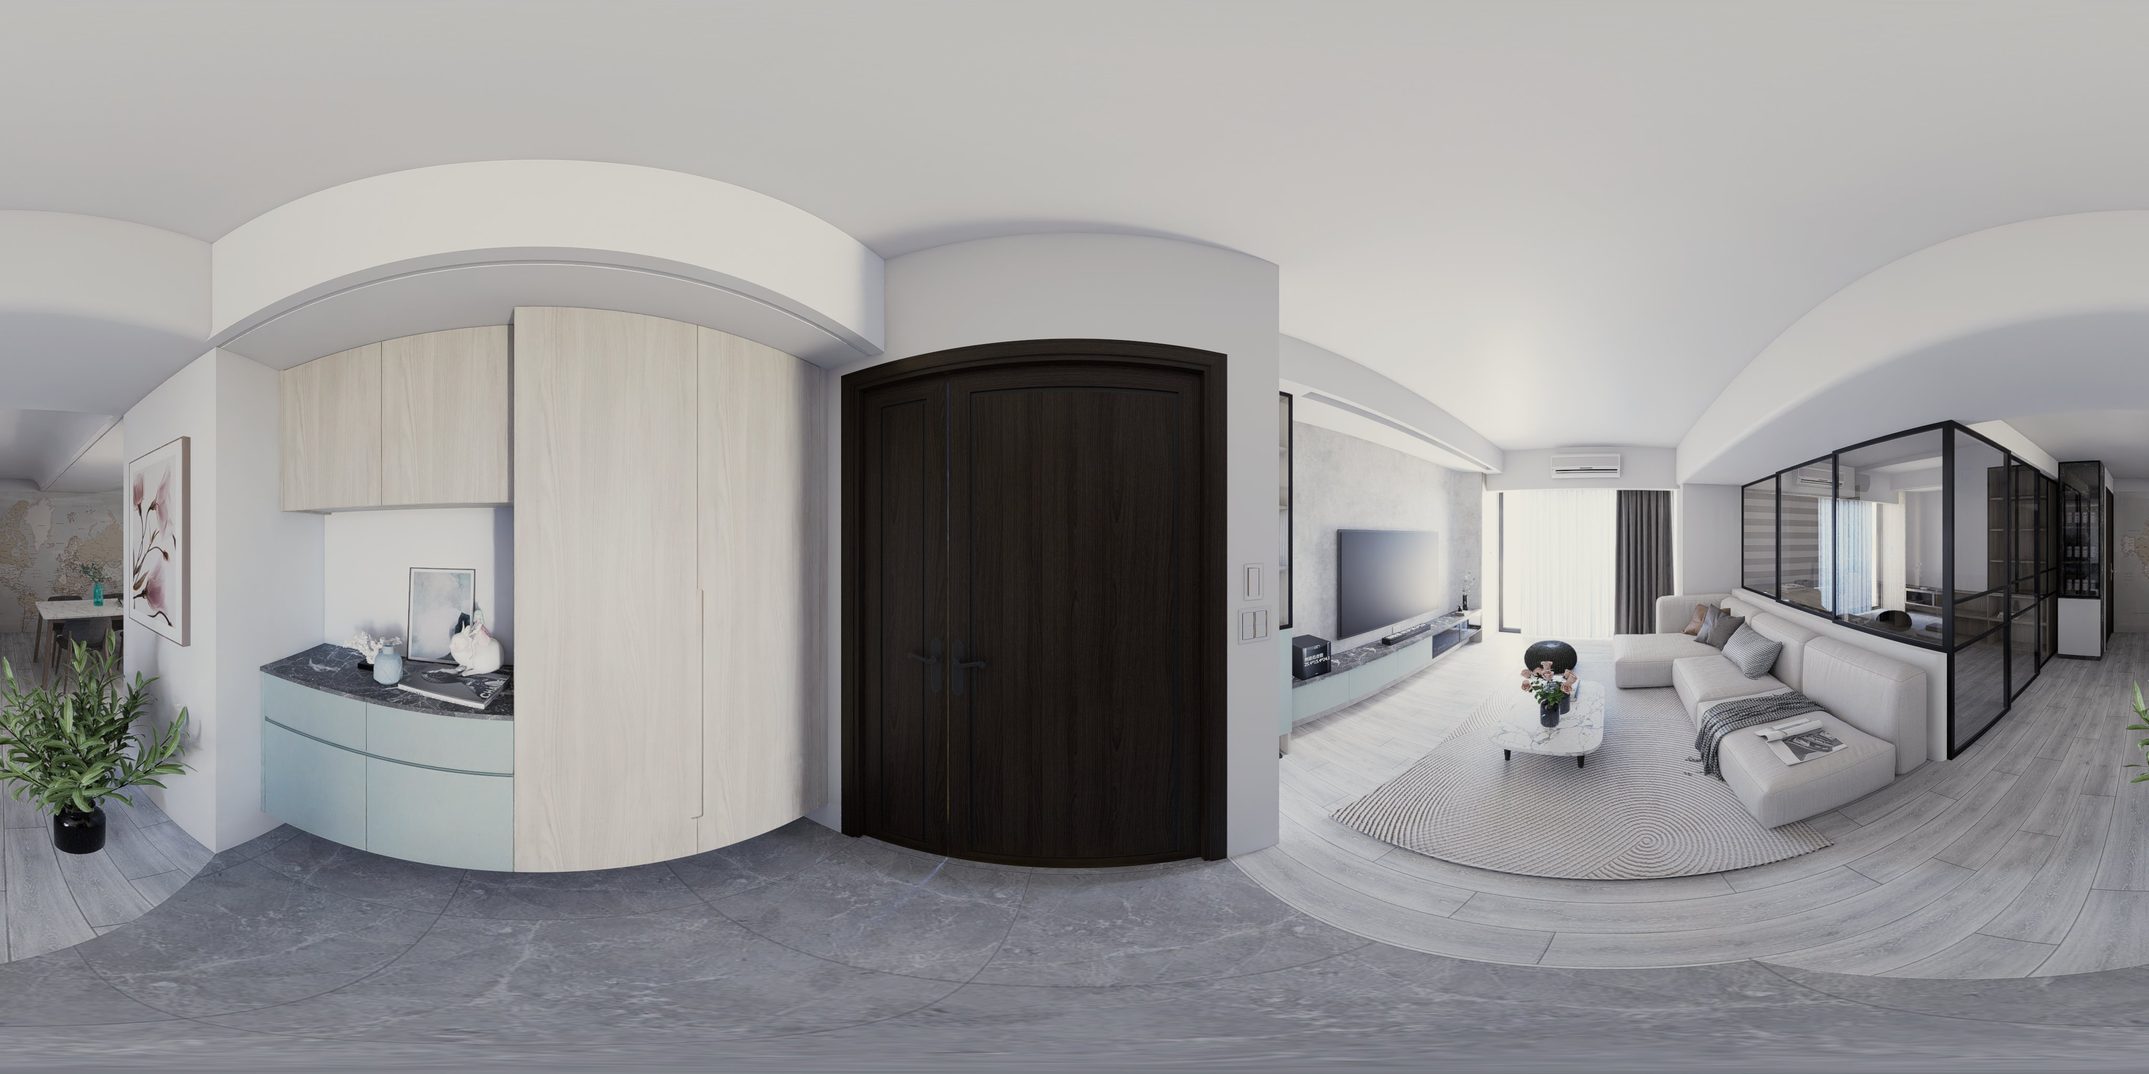
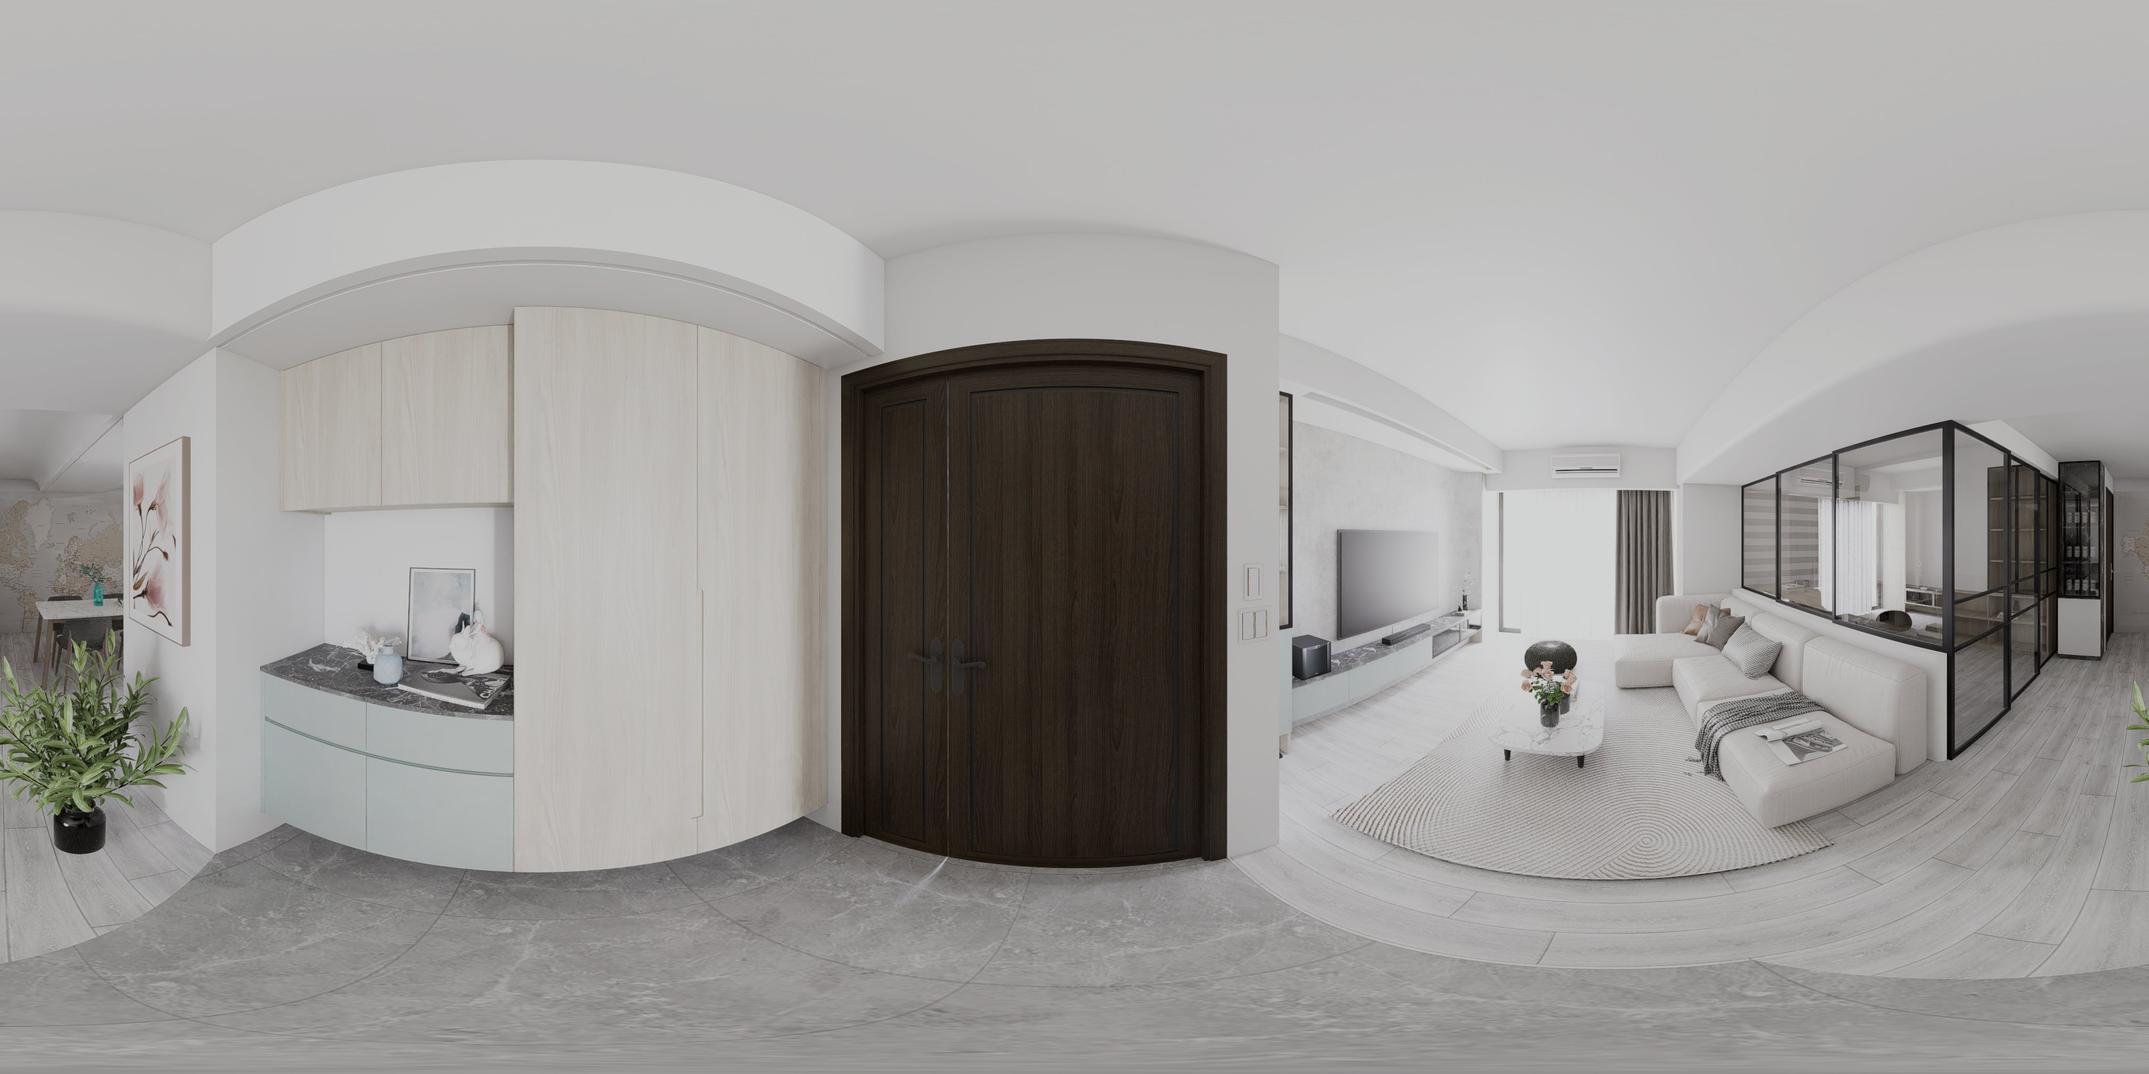
崇德仁美刪除家電上的尺寸文字（玄關、客廳、餐廚 12 張重出）
- 設計師原模型在揚聲器、低音箱、冰箱、微波爐上標了 3D 尺寸文字，渲染時會出現
- 刪除後重出 VR1~VR3 有／無飾品的白天與燈光版，白天對齊原線上版亮度色調

diff --git a/chongde/index.html b/chongde/index.html
@@ -121,7 +121,7 @@ body { background: var(--bg); color: var(--ink); font-family: var(--f-ui); font-
 <script src="https://cdnjs.cloudflare.com/ajax/libs/pannellum/2.5.6/pannellum.js"></script>
 <script>
 const ROOMS = [{"id": "VR1", "name": "玄關", "x": 43.33, "y": 22.01}, {"id": "VR2", "name": "客廳", "x": 80.0, "y": 13.88}, {"id": "VR3", "name": "餐廚", "x": 34.44, "y": 44.5}, {"id": "VR4", "name": "書房", "x": 67.78, "y": 51.2}, {"id": "VR5", "name": "主臥", "x": 63.33, "y": 69.86}];
-const SCENES = {"VR1": {"title": "玄關", "panorama": "pano/VR1.jpg?v=s1", "yaw": 70, "pitch": -5, "hfov": 105, "northOffset": 0, "hotSpots": [{"pitch": -12, "yaw": 70, "type": "scene", "sceneId": "VR2", "targetYaw": "sameAzimuth", "cssClass": "gis-hot", "createTooltipFunc": "HOT", "createTooltipArgs": "客廳"}, {"pitch": -12, "yaw": -160, "type": "scene", "sceneId": "VR3", "targetYaw": "sameAzimuth", "cssClass": "gis-hot", "createTooltipFunc": "HOT", "createTooltipArgs": "餐廚"}]}, "VR2": {"title": "客廳", "panorama": "pano/VR2.jpg?v=s1", "yaw": 0, "pitch": -5, "hfov": 105, "northOffset": 0, "hotSpots": [{"pitch": -14, "yaw": -98, "type": "scene", "sceneId": "VR1", "targetYaw": "sameAzimuth", "cssClass": "gis-hot", "createTooltipFunc": "HOT", "createTooltipArgs": "玄關"}, {"pitch": -5, "yaw": -135, "type": "scene", "sceneId": "VR3", "targetYaw": "sameAzimuth", "cssClass": "gis-hot", "createTooltipFunc": "HOT", "createTooltipArgs": "餐廚"}]}, "VR3": {"title": "餐廚", "panorama": "pano/VR3.jpg?v=s1", "yaw": -160, "pitch": -5, "hfov": 105, "northOffset": 0, "hotSpots": [{"pitch": -14, "yaw": 25, "type": "scene", "sceneId": "VR1", "targetYaw": "sameAzimuth", "cssClass": "gis-hot", "createTooltipFunc": "HOT", "createTooltipArgs": "玄關"}, {"pitch": -6, "yaw": 55, "type": "scene", "sceneId": "VR2", "targetYaw": "sameAzimuth", "cssClass": "gis-hot", "createTooltipFunc": "HOT", "createTooltipArgs": "客廳"}, {"pitch": -10, "yaw": 100, "type": "scene", "sceneId": "VR4", "targetYaw": "sameAzimuth", "cssClass": "gis-hot", "createTooltipFunc": "HOT", "createTooltipArgs": "書房"}, {"pitch": -6, "yaw": 140, "type": "scene", "sceneId": "VR5", "targetYaw": "sameAzimuth", "cssClass": "gis-hot", "createTooltipFunc": "HOT", "createTooltipArgs": "主臥"}]}, "VR4": {"title": "書房", "panorama": "pano/VR4.jpg?v=s1", "yaw": 60, "pitch": -5, "hfov": 105, "northOffset": 0, "hotSpots": [{"pitch": -10, "yaw": -80, "type": "scene", "sceneId": "VR3", "targetYaw": "sameAzimuth", "cssClass": "gis-hot", "createTooltipFunc": "HOT", "createTooltipArgs": "餐廚"}]}, "VR5": {"title": "主臥", "panorama": "pano/VR5.jpg?v=s1", "yaw": 180, "pitch": -5, "hfov": 105, "northOffset": 0, "hotSpots": [{"pitch": -6, "yaw": -75, "type": "scene", "sceneId": "VR3", "targetYaw": "sameAzimuth", "cssClass": "gis-hot", "createTooltipFunc": "HOT", "createTooltipArgs": "餐廚"}]}, "VR1@n": {"title": "玄關", "panorama": "pano_night/VR1.jpg?v=s1", "yaw": 70, "pitch": -5, "hfov": 105, "northOffset": 0, "hotSpots": [{"pitch": -12, "yaw": 70, "type": "scene", "sceneId": "VR2@n", "targetYaw": "sameAzimuth", "cssClass": "gis-hot", "createTooltipFunc": "HOT", "createTooltipArgs": "客廳"}, {"pitch": -12, "yaw": -160, "type": "scene", "sceneId": "VR3@n", "targetYaw": "sameAzimuth", "cssClass": "gis-hot", "createTooltipFunc": "HOT", "createTooltipArgs": "餐廚"}]}, "VR2@n": {"title": "客廳", "panorama": "pano_night/VR2.jpg?v=s1", "yaw": 0, "pitch": -5, "hfov": 105, "northOffset": 0, "hotSpots": [{"pitch": -14, "yaw": -98, "type": "scene", "sceneId": "VR1@n", "targetYaw": "sameAzimuth", "cssClass": "gis-hot", "createTooltipFunc": "HOT", "createTooltipArgs": "玄關"}, {"pitch": -5, "yaw": -135, "type": "scene", "sceneId": "VR3@n", "targetYaw": "sameAzimuth", "cssClass": "gis-hot", "createTooltipFunc": "HOT", "createTooltipArgs": "餐廚"}]}, "VR3@n": {"title": "餐廚", "panorama": "pano_night/VR3.jpg?v=s1", "yaw": -160, "pitch": -5, "hfov": 105, "northOffset": 0, "hotSpots": [{"pitch": -14, "yaw": 25, "type": "scene", "sceneId": "VR1@n", "targetYaw": "sameAzimuth", "cssClass": "gis-hot", "createTooltipFunc": "HOT", "createTooltipArgs": "玄關"}, {"pitch": -6, "yaw": 55, "type": "scene", "sceneId": "VR2@n", "targetYaw": "sameAzimuth", "cssClass": "gis-hot", "createTooltipFunc": "HOT", "createTooltipArgs": "客廳"}, {"pitch": -10, "yaw": 100, "type": "scene", "sceneId": "VR4@n", "targetYaw": "sameAzimuth", "cssClass": "gis-hot", "createTooltipFunc": "HOT", "createTooltipArgs": "書房"}, {"pitch": -6, "yaw": 140, "type": "scene", "sceneId": "VR5@n", "targetYaw": "sameAzimuth", "cssClass": "gis-hot", "createTooltipFunc": "HOT", "createTooltipArgs": "主臥"}]}, "VR4@n": {"title": "書房", "panorama": "pano_night/VR4.jpg?v=s1", "yaw": 60, "pitch": -5, "hfov": 105, "northOffset": 0, "hotSpots": [{"pitch": -10, "yaw": -80, "type": "scene", "sceneId": "VR3@n", "targetYaw": "sameAzimuth", "cssClass": "gis-hot", "createTooltipFunc": "HOT", "createTooltipArgs": "餐廚"}]}, "VR5@n": {"title": "主臥", "panorama": "pano_night/VR5.jpg?v=s1", "yaw": 180, "pitch": -5, "hfov": 105, "northOffset": 0, "hotSpots": [{"pitch": -6, "yaw": -75, "type": "scene", "sceneId": "VR3@n", "targetYaw": "sameAzimuth", "cssClass": "gis-hot", "createTooltipFunc": "HOT", "createTooltipArgs": "餐廚"}]}, "VR1~p": {"title": "玄關", "panorama": "pano_plain/VR1.jpg?v=m1b", "yaw": 70, "pitch": -5, "hfov": 105, "northOffset": 0, "hotSpots": [{"pitch": -12, "yaw": 70, "type": "scene", "sceneId": "VR2~p", "targetYaw": "sameAzimuth", "cssClass": "gis-hot", "createTooltipFunc": "HOT", "createTooltipArgs": "客廳"}, {"pitch": -12, "yaw": -160, "type": "scene", "sceneId": "VR3~p", "targetYaw": "sameAzimuth", "cssClass": "gis-hot", "createTooltipFunc": "HOT", "createTooltipArgs": "餐廚"}]}, "VR2~p": {"title": "客廳", "panorama": "pano_plain/VR2.jpg?v=m1b", "yaw": 0, "pitch": -5, "hfov": 105, "northOffset": 0, "hotSpots": [{"pitch": -14, "yaw": -98, "type": "scene", "sceneId": "VR1~p", "targetYaw": "sameAzimuth", "cssClass": "gis-hot", "createTooltipFunc": "HOT", "createTooltipArgs": "玄關"}, {"pitch": -5, "yaw": -135, "type": "scene", "sceneId": "VR3~p", "targetYaw": "sameAzimuth", "cssClass": "gis-hot", "createTooltipFunc": "HOT", "createTooltipArgs": "餐廚"}]}, "VR3~p": {"title": "餐廚", "panorama": "pano_plain/VR3.jpg?v=m1", "yaw": -160, "pitch": -5, "hfov": 105, "northOffset": 0, "hotSpots": [{"pitch": -14, "yaw": 25, "type": "scene", "sceneId": "VR1~p", "targetYaw": "sameAzimuth", "cssClass": "gis-hot", "createTooltipFunc": "HOT", "createTooltipArgs": "玄關"}, {"pitch": -6, "yaw": 55, "type": "scene", "sceneId": "VR2~p", "targetYaw": "sameAzimuth", "cssClass": "gis-hot", "createTooltipFunc": "HOT", "createTooltipArgs": "客廳"}, {"pitch": -10, "yaw": 100, "type": "scene", "sceneId": "VR4~p", "targetYaw": "sameAzimuth", "cssClass": "gis-hot", "createTooltipFunc": "HOT", "createTooltipArgs": "書房"}, {"pitch": -6, "yaw": 140, "type": "scene", "sceneId": "VR5~p", "targetYaw": "sameAzimuth", "cssClass": "gis-hot", "createTooltipFunc": "HOT", "createTooltipArgs": "主臥"}]}, "VR4~p": {"title": "書房", "panorama": "pano_plain/VR4.jpg?v=m1", "yaw": 60, "pitch": -5, "hfov": 105, "northOffset": 0, "hotSpots": [{"pitch": -10, "yaw": -80, "type": "scene", "sceneId": "VR3~p", "targetYaw": "sameAzimuth", "cssClass": "gis-hot", "createTooltipFunc": "HOT", "createTooltipArgs": "餐廚"}]}, "VR5~p": {"title": "主臥", "panorama": "pano_plain/VR5.jpg?v=m1", "yaw": 180, "pitch": -5, "hfov": 105, "northOffset": 0, "hotSpots": [{"pitch": -6, "yaw": -75, "type": "scene", "sceneId": "VR3~p", "targetYaw": "sameAzimuth", "cssClass": "gis-hot", "createTooltipFunc": "HOT", "createTooltipArgs": "餐廚"}]}, "VR1@n~p": {"title": "玄關", "panorama": "pano_night_plain/VR1.jpg?v=m1", "yaw": 70, "pitch": -5, "hfov": 105, "northOffset": 0, "hotSpots": [{"pitch": -12, "yaw": 70, "type": "scene", "sceneId": "VR2@n~p", "targetYaw": "sameAzimuth", "cssClass": "gis-hot", "createTooltipFunc": "HOT", "createTooltipArgs": "客廳"}, {"pitch": -12, "yaw": -160, "type": "scene", "sceneId": "VR3@n~p", "targetYaw": "sameAzimuth", "cssClass": "gis-hot", "createTooltipFunc": "HOT", "createTooltipArgs": "餐廚"}]}, "VR2@n~p": {"title": "客廳", "panorama": "pano_night_plain/VR2.jpg?v=m1", "yaw": 0, "pitch": -5, "hfov": 105, "northOffset": 0, "hotSpots": [{"pitch": -14, "yaw": -98, "type": "scene", "sceneId": "VR1@n~p", "targetYaw": "sameAzimuth", "cssClass": "gis-hot", "createTooltipFunc": "HOT", "createTooltipArgs": "玄關"}, {"pitch": -5, "yaw": -135, "type": "scene", "sceneId": "VR3@n~p", "targetYaw": "sameAzimuth", "cssClass": "gis-hot", "createTooltipFunc": "HOT", "createTooltipArgs": "餐廚"}]}, "VR3@n~p": {"title": "餐廚", "panorama": "pano_night_plain/VR3.jpg?v=m1", "yaw": -160, "pitch": -5, "hfov": 105, "northOffset": 0, "hotSpots": [{"pitch": -14, "yaw": 25, "type": "scene", "sceneId": "VR1@n~p", "targetYaw": "sameAzimuth", "cssClass": "gis-hot", "createTooltipFunc": "HOT", "createTooltipArgs": "玄關"}, {"pitch": -6, "yaw": 55, "type": "scene", "sceneId": "VR2@n~p", "targetYaw": "sameAzimuth", "cssClass": "gis-hot", "createTooltipFunc": "HOT", "createTooltipArgs": "客廳"}, {"pitch": -10, "yaw": 100, "type": "scene", "sceneId": "VR4@n~p", "targetYaw": "sameAzimuth", "cssClass": "gis-hot", "createTooltipFunc": "HOT", "createTooltipArgs": "書房"}, {"pitch": -6, "yaw": 140, "type": "scene", "sceneId": "VR5@n~p", "targetYaw": "sameAzimuth", "cssClass": "gis-hot", "createTooltipFunc": "HOT", "createTooltipArgs": "主臥"}]}, "VR4@n~p": {"title": "書房", "panorama": "pano_night_plain/VR4.jpg?v=m1", "yaw": 60, "pitch": -5, "hfov": 105, "northOffset": 0, "hotSpots": [{"pitch": -10, "yaw": -80, "type": "scene", "sceneId": "VR3@n~p", "targetYaw": "sameAzimuth", "cssClass": "gis-hot", "createTooltipFunc": "HOT", "createTooltipArgs": "餐廚"}]}, "VR5@n~p": {"title": "主臥", "panorama": "pano_night_plain/VR5.jpg?v=m1", "yaw": 180, "pitch": -5, "hfov": 105, "northOffset": 0, "hotSpots": [{"pitch": -6, "yaw": -75, "type": "scene", "sceneId": "VR3@n~p", "targetYaw": "sameAzimuth", "cssClass": "gis-hot", "createTooltipFunc": "HOT", "createTooltipArgs": "餐廚"}]}};
+const SCENES = {"VR1": {"title": "玄關", "panorama": "pano/VR1.jpg?v=s2", "yaw": 70, "pitch": -5, "hfov": 105, "northOffset": 0, "hotSpots": [{"pitch": -12, "yaw": 70, "type": "scene", "sceneId": "VR2", "targetYaw": "sameAzimuth", "cssClass": "gis-hot", "createTooltipFunc": "HOT", "createTooltipArgs": "客廳"}, {"pitch": -12, "yaw": -160, "type": "scene", "sceneId": "VR3", "targetYaw": "sameAzimuth", "cssClass": "gis-hot", "createTooltipFunc": "HOT", "createTooltipArgs": "餐廚"}]}, "VR2": {"title": "客廳", "panorama": "pano/VR2.jpg?v=s2", "yaw": 0, "pitch": -5, "hfov": 105, "northOffset": 0, "hotSpots": [{"pitch": -14, "yaw": -98, "type": "scene", "sceneId": "VR1", "targetYaw": "sameAzimuth", "cssClass": "gis-hot", "createTooltipFunc": "HOT", "createTooltipArgs": "玄關"}, {"pitch": -5, "yaw": -135, "type": "scene", "sceneId": "VR3", "targetYaw": "sameAzimuth", "cssClass": "gis-hot", "createTooltipFunc": "HOT", "createTooltipArgs": "餐廚"}]}, "VR3": {"title": "餐廚", "panorama": "pano/VR3.jpg?v=s2", "yaw": -160, "pitch": -5, "hfov": 105, "northOffset": 0, "hotSpots": [{"pitch": -14, "yaw": 25, "type": "scene", "sceneId": "VR1", "targetYaw": "sameAzimuth", "cssClass": "gis-hot", "createTooltipFunc": "HOT", "createTooltipArgs": "玄關"}, {"pitch": -6, "yaw": 55, "type": "scene", "sceneId": "VR2", "targetYaw": "sameAzimuth", "cssClass": "gis-hot", "createTooltipFunc": "HOT", "createTooltipArgs": "客廳"}, {"pitch": -10, "yaw": 100, "type": "scene", "sceneId": "VR4", "targetYaw": "sameAzimuth", "cssClass": "gis-hot", "createTooltipFunc": "HOT", "createTooltipArgs": "書房"}, {"pitch": -6, "yaw": 140, "type": "scene", "sceneId": "VR5", "targetYaw": "sameAzimuth", "cssClass": "gis-hot", "createTooltipFunc": "HOT", "createTooltipArgs": "主臥"}]}, "VR4": {"title": "書房", "panorama": "pano/VR4.jpg?v=s1", "yaw": 60, "pitch": -5, "hfov": 105, "northOffset": 0, "hotSpots": [{"pitch": -10, "yaw": -80, "type": "scene", "sceneId": "VR3", "targetYaw": "sameAzimuth", "cssClass": "gis-hot", "createTooltipFunc": "HOT", "createTooltipArgs": "餐廚"}]}, "VR5": {"title": "主臥", "panorama": "pano/VR5.jpg?v=s1", "yaw": 180, "pitch": -5, "hfov": 105, "northOffset": 0, "hotSpots": [{"pitch": -6, "yaw": -75, "type": "scene", "sceneId": "VR3", "targetYaw": "sameAzimuth", "cssClass": "gis-hot", "createTooltipFunc": "HOT", "createTooltipArgs": "餐廚"}]}, "VR1@n": {"title": "玄關", "panorama": "pano_night/VR1.jpg?v=s2", "yaw": 70, "pitch": -5, "hfov": 105, "northOffset": 0, "hotSpots": [{"pitch": -12, "yaw": 70, "type": "scene", "sceneId": "VR2@n", "targetYaw": "sameAzimuth", "cssClass": "gis-hot", "createTooltipFunc": "HOT", "createTooltipArgs": "客廳"}, {"pitch": -12, "yaw": -160, "type": "scene", "sceneId": "VR3@n", "targetYaw": "sameAzimuth", "cssClass": "gis-hot", "createTooltipFunc": "HOT", "createTooltipArgs": "餐廚"}]}, "VR2@n": {"title": "客廳", "panorama": "pano_night/VR2.jpg?v=s2", "yaw": 0, "pitch": -5, "hfov": 105, "northOffset": 0, "hotSpots": [{"pitch": -14, "yaw": -98, "type": "scene", "sceneId": "VR1@n", "targetYaw": "sameAzimuth", "cssClass": "gis-hot", "createTooltipFunc": "HOT", "createTooltipArgs": "玄關"}, {"pitch": -5, "yaw": -135, "type": "scene", "sceneId": "VR3@n", "targetYaw": "sameAzimuth", "cssClass": "gis-hot", "createTooltipFunc": "HOT", "createTooltipArgs": "餐廚"}]}, "VR3@n": {"title": "餐廚", "panorama": "pano_night/VR3.jpg?v=s2", "yaw": -160, "pitch": -5, "hfov": 105, "northOffset": 0, "hotSpots": [{"pitch": -14, "yaw": 25, "type": "scene", "sceneId": "VR1@n", "targetYaw": "sameAzimuth", "cssClass": "gis-hot", "createTooltipFunc": "HOT", "createTooltipArgs": "玄關"}, {"pitch": -6, "yaw": 55, "type": "scene", "sceneId": "VR2@n", "targetYaw": "sameAzimuth", "cssClass": "gis-hot", "createTooltipFunc": "HOT", "createTooltipArgs": "客廳"}, {"pitch": -10, "yaw": 100, "type": "scene", "sceneId": "VR4@n", "targetYaw": "sameAzimuth", "cssClass": "gis-hot", "createTooltipFunc": "HOT", "createTooltipArgs": "書房"}, {"pitch": -6, "yaw": 140, "type": "scene", "sceneId": "VR5@n", "targetYaw": "sameAzimuth", "cssClass": "gis-hot", "createTooltipFunc": "HOT", "createTooltipArgs": "主臥"}]}, "VR4@n": {"title": "書房", "panorama": "pano_night/VR4.jpg?v=s1", "yaw": 60, "pitch": -5, "hfov": 105, "northOffset": 0, "hotSpots": [{"pitch": -10, "yaw": -80, "type": "scene", "sceneId": "VR3@n", "targetYaw": "sameAzimuth", "cssClass": "gis-hot", "createTooltipFunc": "HOT", "createTooltipArgs": "餐廚"}]}, "VR5@n": {"title": "主臥", "panorama": "pano_night/VR5.jpg?v=s1", "yaw": 180, "pitch": -5, "hfov": 105, "northOffset": 0, "hotSpots": [{"pitch": -6, "yaw": -75, "type": "scene", "sceneId": "VR3@n", "targetYaw": "sameAzimuth", "cssClass": "gis-hot", "createTooltipFunc": "HOT", "createTooltipArgs": "餐廚"}]}, "VR1~p": {"title": "玄關", "panorama": "pano_plain/VR1.jpg?v=p2", "yaw": 70, "pitch": -5, "hfov": 105, "northOffset": 0, "hotSpots": [{"pitch": -12, "yaw": 70, "type": "scene", "sceneId": "VR2~p", "targetYaw": "sameAzimuth", "cssClass": "gis-hot", "createTooltipFunc": "HOT", "createTooltipArgs": "客廳"}, {"pitch": -12, "yaw": -160, "type": "scene", "sceneId": "VR3~p", "targetYaw": "sameAzimuth", "cssClass": "gis-hot", "createTooltipFunc": "HOT", "createTooltipArgs": "餐廚"}]}, "VR2~p": {"title": "客廳", "panorama": "pano_plain/VR2.jpg?v=p2", "yaw": 0, "pitch": -5, "hfov": 105, "northOffset": 0, "hotSpots": [{"pitch": -14, "yaw": -98, "type": "scene", "sceneId": "VR1~p", "targetYaw": "sameAzimuth", "cssClass": "gis-hot", "createTooltipFunc": "HOT", "createTooltipArgs": "玄關"}, {"pitch": -5, "yaw": -135, "type": "scene", "sceneId": "VR3~p", "targetYaw": "sameAzimuth", "cssClass": "gis-hot", "createTooltipFunc": "HOT", "createTooltipArgs": "餐廚"}]}, "VR3~p": {"title": "餐廚", "panorama": "pano_plain/VR3.jpg?v=p2", "yaw": -160, "pitch": -5, "hfov": 105, "northOffset": 0, "hotSpots": [{"pitch": -14, "yaw": 25, "type": "scene", "sceneId": "VR1~p", "targetYaw": "sameAzimuth", "cssClass": "gis-hot", "createTooltipFunc": "HOT", "createTooltipArgs": "玄關"}, {"pitch": -6, "yaw": 55, "type": "scene", "sceneId": "VR2~p", "targetYaw": "sameAzimuth", "cssClass": "gis-hot", "createTooltipFunc": "HOT", "createTooltipArgs": "客廳"}, {"pitch": -10, "yaw": 100, "type": "scene", "sceneId": "VR4~p", "targetYaw": "sameAzimuth", "cssClass": "gis-hot", "createTooltipFunc": "HOT", "createTooltipArgs": "書房"}, {"pitch": -6, "yaw": 140, "type": "scene", "sceneId": "VR5~p", "targetYaw": "sameAzimuth", "cssClass": "gis-hot", "createTooltipFunc": "HOT", "createTooltipArgs": "主臥"}]}, "VR4~p": {"title": "書房", "panorama": "pano_plain/VR4.jpg?v=m1", "yaw": 60, "pitch": -5, "hfov": 105, "northOffset": 0, "hotSpots": [{"pitch": -10, "yaw": -80, "type": "scene", "sceneId": "VR3~p", "targetYaw": "sameAzimuth", "cssClass": "gis-hot", "createTooltipFunc": "HOT", "createTooltipArgs": "餐廚"}]}, "VR5~p": {"title": "主臥", "panorama": "pano_plain/VR5.jpg?v=m1", "yaw": 180, "pitch": -5, "hfov": 105, "northOffset": 0, "hotSpots": [{"pitch": -6, "yaw": -75, "type": "scene", "sceneId": "VR3~p", "targetYaw": "sameAzimuth", "cssClass": "gis-hot", "createTooltipFunc": "HOT", "createTooltipArgs": "餐廚"}]}, "VR1@n~p": {"title": "玄關", "panorama": "pano_night_plain/VR1.jpg?v=p2", "yaw": 70, "pitch": -5, "hfov": 105, "northOffset": 0, "hotSpots": [{"pitch": -12, "yaw": 70, "type": "scene", "sceneId": "VR2@n~p", "targetYaw": "sameAzimuth", "cssClass": "gis-hot", "createTooltipFunc": "HOT", "createTooltipArgs": "客廳"}, {"pitch": -12, "yaw": -160, "type": "scene", "sceneId": "VR3@n~p", "targetYaw": "sameAzimuth", "cssClass": "gis-hot", "createTooltipFunc": "HOT", "createTooltipArgs": "餐廚"}]}, "VR2@n~p": {"title": "客廳", "panorama": "pano_night_plain/VR2.jpg?v=p2", "yaw": 0, "pitch": -5, "hfov": 105, "northOffset": 0, "hotSpots": [{"pitch": -14, "yaw": -98, "type": "scene", "sceneId": "VR1@n~p", "targetYaw": "sameAzimuth", "cssClass": "gis-hot", "createTooltipFunc": "HOT", "createTooltipArgs": "玄關"}, {"pitch": -5, "yaw": -135, "type": "scene", "sceneId": "VR3@n~p", "targetYaw": "sameAzimuth", "cssClass": "gis-hot", "createTooltipFunc": "HOT", "createTooltipArgs": "餐廚"}]}, "VR3@n~p": {"title": "餐廚", "panorama": "pano_night_plain/VR3.jpg?v=p2", "yaw": -160, "pitch": -5, "hfov": 105, "northOffset": 0, "hotSpots": [{"pitch": -14, "yaw": 25, "type": "scene", "sceneId": "VR1@n~p", "targetYaw": "sameAzimuth", "cssClass": "gis-hot", "createTooltipFunc": "HOT", "createTooltipArgs": "玄關"}, {"pitch": -6, "yaw": 55, "type": "scene", "sceneId": "VR2@n~p", "targetYaw": "sameAzimuth", "cssClass": "gis-hot", "createTooltipFunc": "HOT", "createTooltipArgs": "客廳"}, {"pitch": -10, "yaw": 100, "type": "scene", "sceneId": "VR4@n~p", "targetYaw": "sameAzimuth", "cssClass": "gis-hot", "createTooltipFunc": "HOT", "createTooltipArgs": "書房"}, {"pitch": -6, "yaw": 140, "type": "scene", "sceneId": "VR5@n~p", "targetYaw": "sameAzimuth", "cssClass": "gis-hot", "createTooltipFunc": "HOT", "createTooltipArgs": "主臥"}]}, "VR4@n~p": {"title": "書房", "panorama": "pano_night_plain/VR4.jpg?v=m1", "yaw": 60, "pitch": -5, "hfov": 105, "northOffset": 0, "hotSpots": [{"pitch": -10, "yaw": -80, "type": "scene", "sceneId": "VR3@n~p", "targetYaw": "sameAzimuth", "cssClass": "gis-hot", "createTooltipFunc": "HOT", "createTooltipArgs": "餐廚"}]}, "VR5@n~p": {"title": "主臥", "panorama": "pano_night_plain/VR5.jpg?v=m1", "yaw": 180, "pitch": -5, "hfov": 105, "northOffset": 0, "hotSpots": [{"pitch": -6, "yaw": -75, "type": "scene", "sceneId": "VR3@n~p", "targetYaw": "sameAzimuth", "cssClass": "gis-hot", "createTooltipFunc": "HOT", "createTooltipArgs": "餐廚"}]}};
 function HOT(div, name) {
   const p = document.createElement('span');
   p.className = 'pill';
